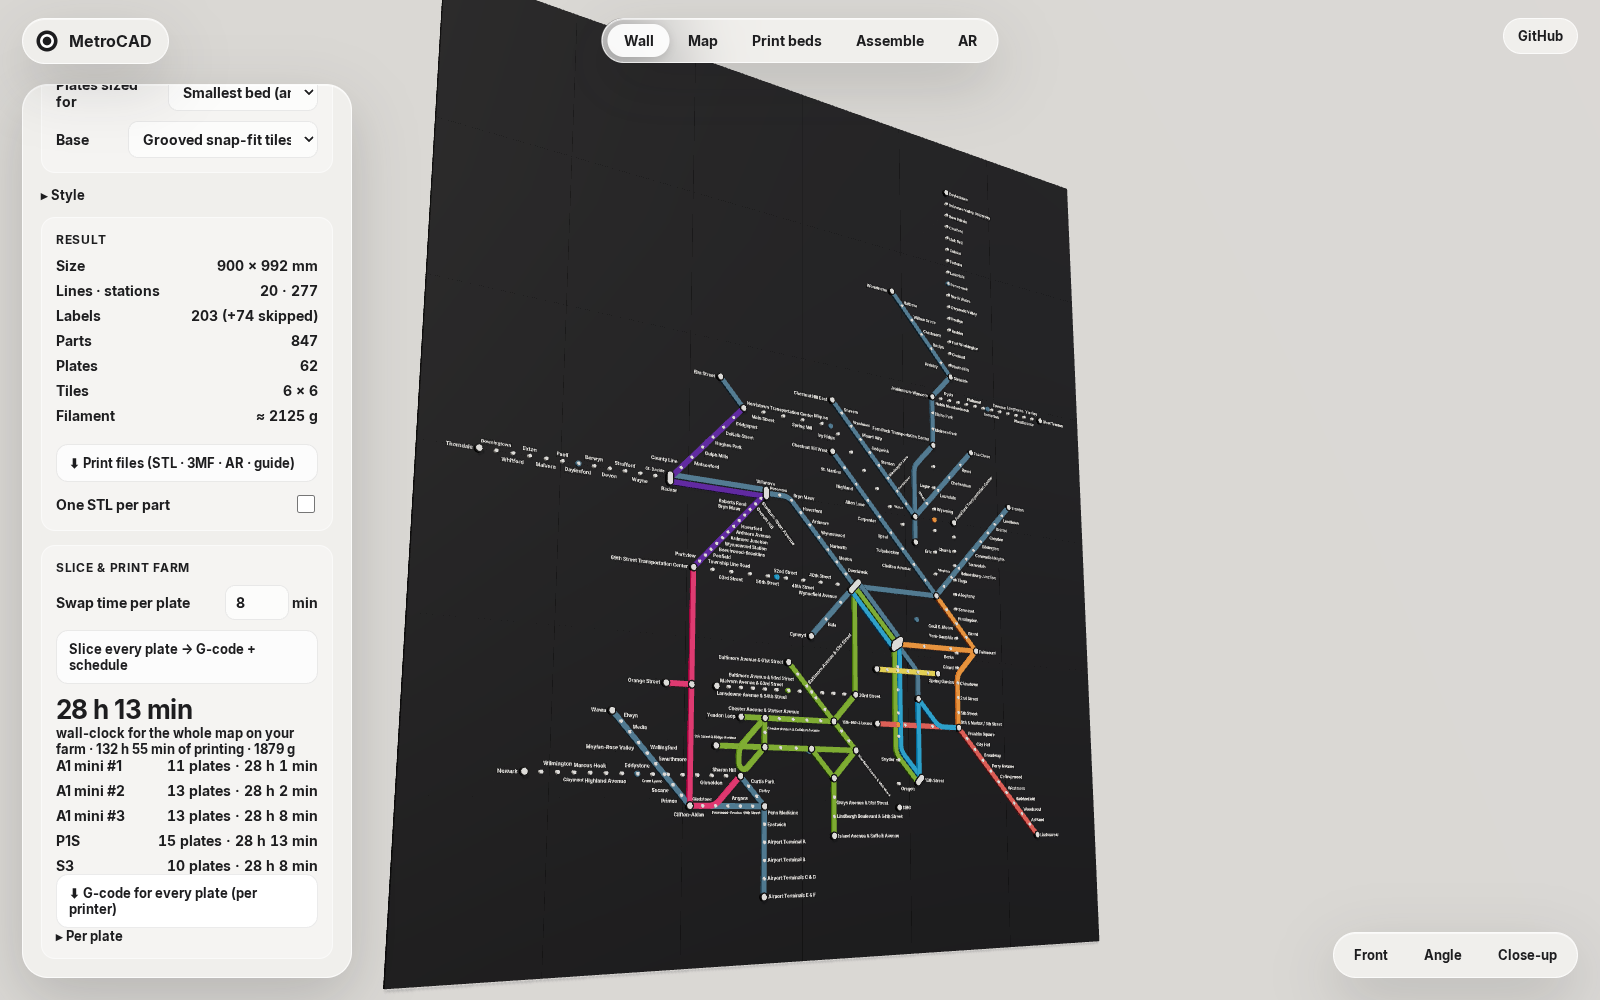
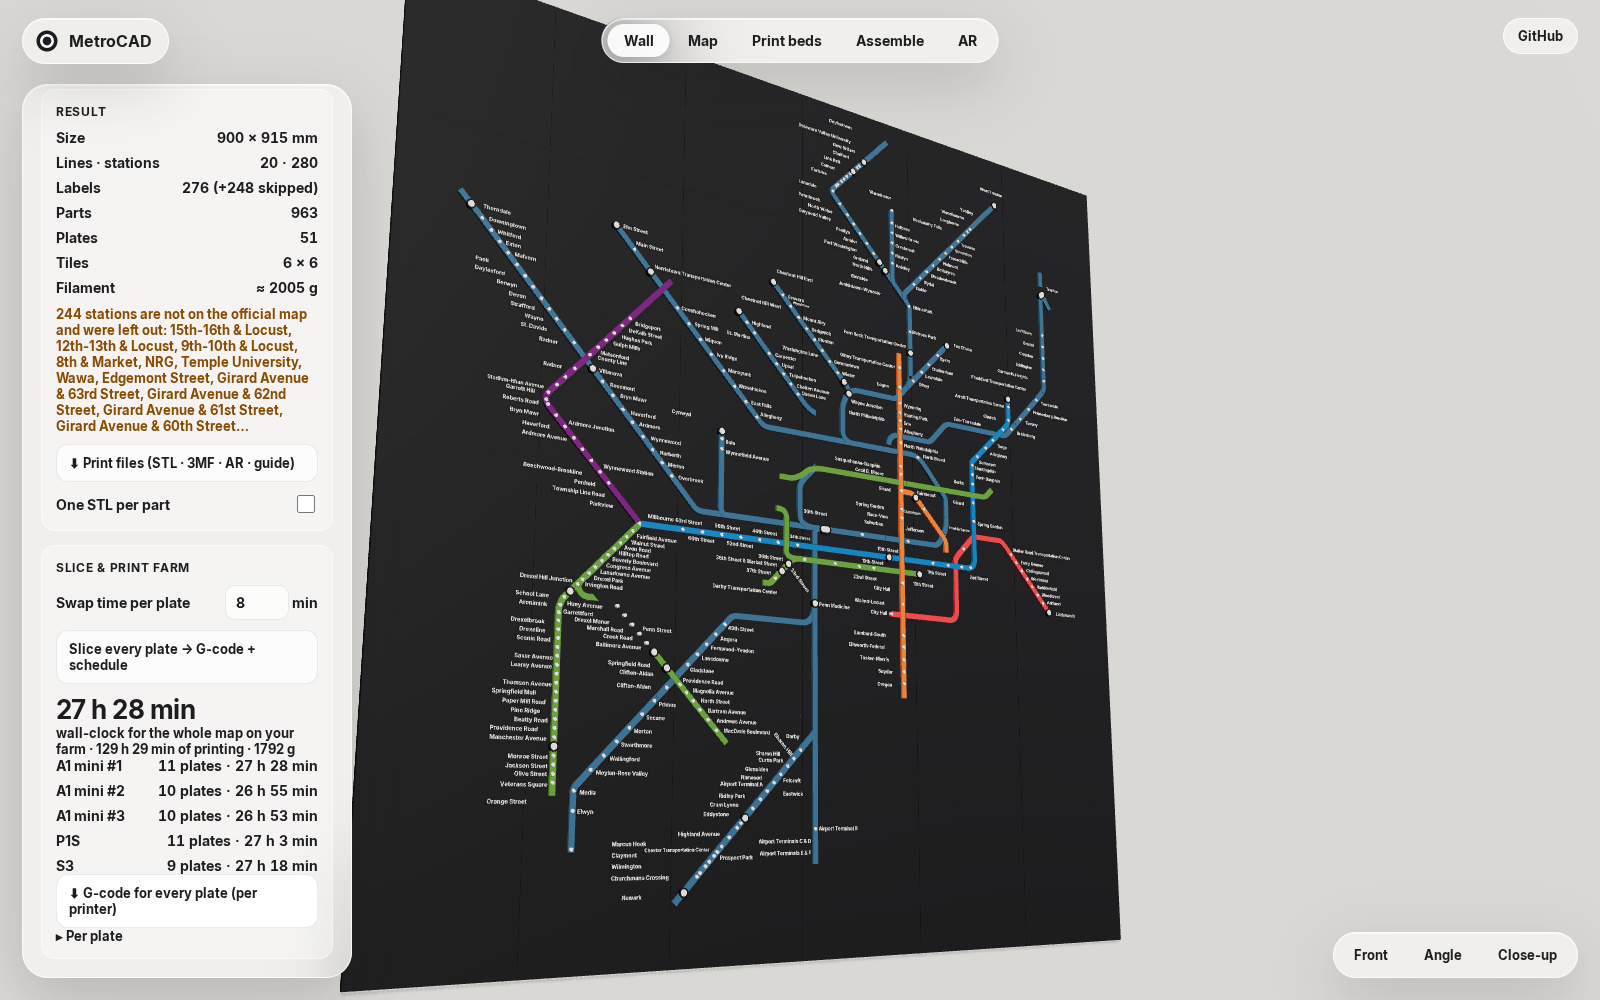
Fix bed-split cuts that deleted long line pieces; interchange nodes drawn apart get separate markers; Philadelphia screenshots from the official geometry
The half-plane used for bed-split cuts removed the piece instead of the stub beyond its end, so every ribbon longer than the bed vanished from the 3D model (Philly's B, D, M, PATCO and most Regional Rail; also affected London and generated maps). Lines with no located stations no longer borrow a stroke colour. Verification: 280/524 stations on SEPTA's geometry, 9 problems.

Claude-Session: https://claude.ai/code/session_01MBsjaw49DwxCbAxCaJEcQU

Changed region(s): [[0.0312, 0.0, 0.7188, 0.992], [0.0312, 0.682, 0.1875, 0.868]]

diff --git a/packages/core/src/geometry.ts b/packages/core/src/geometry.ts
@@ -146,7 +146,7 @@ export function buildParts(m: ManifoldToplevel, layout: LayoutResult, params: De
   const chainCSs: ChainCS[] = [];
   const halfW = params.lineWidth / 2;
   const halfPlane = (at: Vec2, dir: Vec2): CrossSection => {
-    // Half-plane containing points "behind" dir (i.e. dot(p - at, dir) <= 0): a big square whose +x edge passes through `at`.
+    // Half-plane of points *ahead* of `at` along dir (dot(p - at, dir) >= 0): what a bed-split cut removes beyond a piece's end.
     const sq = CrossSection.square([BIG, 2 * BIG], false).translate([-BIG, -BIG]);
     const r = sq.rotate((angleOf(dir) * 180) / Math.PI);
     sq.delete();
@@ -167,17 +167,23 @@ export function buildParts(m: ManifoldToplevel, layout: LayoutResult, params: De
     if (!caps.length) continue;
     let cs = CrossSection.union(caps);
     caps.forEach((c) => c.delete());
+    const trace: string[] = [`caps ${cs.area().toFixed(0)}`];
     // straight cuts at bed splits (leave clearance/2 on each side so the two pieces do not touch)
-    if (ch.startEnd === 'cut') {
-      const dir = norm(sub(pts[1], pts[0]));
-      const hp = halfPlane(add(pts[0], [dir[0] * clr * 0.5, dir[1] * clr * 0.5]), [-dir[0], -dir[1]]);
+    // direction from the first/last pair of *distinct* points (a repeated point would give a NaN cut that eats the piece)
+    const firstDistinct = pts.findIndex((q, k) => k > 0 && dist(q, pts[0]) > 1e-6);
+    let lastDistinct = pts.length - 2; while (lastDistinct > 0 && dist(pts[lastDistinct], pts[pts.length - 1]) <= 1e-6) lastDistinct--;
+    if (ch.startEnd === 'cut' && firstDistinct > 0) {
+      const dir = norm(sub(pts[firstDistinct], pts[0]));
+      const hp = halfPlane(add(pts[0], [dir[0] * clr * 0.5, dir[1] * clr * 0.5]), dir);
+      const n = cs.subtract(hp); cs.delete(); hp.delete(); cs = n;
+      trace.push(`startcut ${cs.area().toFixed(0)}`);
+    }
+    if (ch.endEnd === 'cut' && lastDistinct >= 0) {
+      const dir = norm(sub(pts[pts.length - 1], pts[lastDistinct]));
+      const hp = halfPlane(sub(pts[pts.length - 1], [dir[0] * clr * 0.5, dir[1] * clr * 0.5]), [-dir[0], -dir[1]]);
       const n = cs.subtract(hp); cs.delete(); hp.delete(); cs = n;
     }
-    if (ch.endEnd === 'cut') {
-      const dir = norm(sub(pts[pts.length - 1], pts[pts.length - 2]));
-      const hp = halfPlane(sub(pts[pts.length - 1], [dir[0] * clr * 0.5, dir[1] * clr * 0.5]), dir);
-      const n = cs.subtract(hp); cs.delete(); hp.delete(); cs = n;
-    }
+    trace.push(`cuts ${cs.area().toFixed(0)}`);
     // station ends: subtract the marker (with clearance)
     for (const sid of [ch.startStation, ch.endStation]) {
       if (!sid) continue;
@@ -185,6 +191,7 @@ export function buildParts(m: ManifoldToplevel, layout: LayoutResult, params: De
       if (!mk) continue;
       const off = mk.offset(clr, 'Round');
       const n = cs.subtract(off); cs.delete(); off.delete(); cs = n;
+      trace.push(`end ${sid} ${cs.area().toFixed(0)}`);
     }
     // through stations: holes for dots
     for (const t of ch.throughStations) {
@@ -199,10 +206,10 @@ export function buildParts(m: ManifoldToplevel, layout: LayoutResult, params: De
       const mk = markerCS.get(st.id)!;
       const off = mk.offset(clr, 'Round');
       const inter = cs.intersect(off);
-      if (inter.area() > 0.01) { const n = cs.subtract(off); cs.delete(); cs = n; }
+      if (inter.area() > 0.01) { const n = cs.subtract(off); cs.delete(); cs = n; trace.push(`marker ${st.id} ${cs.area().toFixed(0)}`); }
       inter.delete(); off.delete();
     }
-    if (cs.area() < 0.5) { cs.delete(); continue; }
+    if (cs.area() < 0.5) { warnings.push(`Line piece ${ch.id} (${pts.length} points) vanished after cutting markers/holes: ${trace.join(' → ')}`); cs.delete(); continue; }
     chainCSs.push({ chain: ch, lineId: ln.id, cs: keep(cs), bbox: { x: bb.x - halfW, y: bb.y - halfW, w: bb.w + 2 * halfW, h: bb.h + 2 * halfW } });
     ci++;
   }

diff --git a/packages/core/src/svgimport.ts b/packages/core/src/svgimport.ts
@@ -511,7 +511,7 @@ export function layoutFromExtract(ex0: SvgExtract, net0: MetroNetwork, params: D
     if (typeof process !== 'undefined' && process.env?.SVG_DEBUG === 'colours') log(`  ${ln.ref} candidates ${tried.join(' ')}`);
     // Enough of the line's stations sit on strokes of this colour: a share of them, or at least three (long lines
     // whose labels are mostly bare ordinals or logos still have a few clean hits).
-    if (best && (best.score > 0.15 || best.hits >= 3 || pts.length === 0)) assigned.set(ln.id, best.c);
+    if (best && pts.length > 0 && (best.score > 0.15 || best.hits >= 3)) assigned.set(ln.id, best.c);
     log(`line ${ln.ref}: ${best ? `${best.c} (${(best.score * 100).toFixed(0)}% of ${pts.length} stations)` : 'no colour match'}`);
   }
   // 2b. Resolve which text is which station. A name that appears more than once ("Allegheny" on three lines) goes to
@@ -761,6 +761,35 @@ export function layoutFromExtract(ex0: SvgExtract, net0: MetroNetwork, params: D
       }
     });
     lines.push({ id: ln.id, ref: ln.ref, name: ln.name, color: ((opts.officialColours ?? true) && assigned.get(ln.id)) ? (assigned.get(ln.id) as Hex) : ln.color, chains });
+  }
+  // An interchange whose line ends sit far apart on the drawing (SEPTA draws 30th Street's Regional Rail, L and
+  // trolley platforms as separate nodes joined by a connector) gets one marker per cluster of ends, not one pill
+  // spanning them all — a pill that long would swallow every ribbon under it.
+  {
+    const rMaj = markerRadiusMajor(params);
+    const splitR = rMaj * 2 + params.lineWidth;
+    const extra: LayoutStation[] = [];
+    for (const st of [...stMap.values()]) {
+      if (!st.major || st.markerPoints.length < 2) continue;
+      const clusters: Vec2[][] = [];
+      for (const p of st.markerPoints) { const c = clusters.find((cl) => cl.some((q) => dist(p, q) <= splitR)); if (c) c.push(p); else clusters.push([p]); }
+      if (clusters.length < 2) continue;
+      clusters.sort((a, b) => b.length - a.length);
+      st.markerPoints = clusters[0];
+      clusters.slice(1).forEach((cl, k) => {
+        const id = `${st.id}~m${k + 2}`;
+        const twin: LayoutStation = { ...st, id, markerPoints: cl, x: cl[0][0], y: cl[0][1] };
+        extra.push(twin);
+        // chain ends that produced these points now belong to the twin
+        for (const ln of lines) for (const ch of ln.chains) {
+          if (ch.startStation === st.id && cl.some((q) => dist(q, ch.points[0]) < 1e-6)) ch.startStation = id;
+          if (ch.endStation === st.id && cl.some((q) => dist(q, ch.points[ch.points.length - 1]) < 1e-6)) ch.endStation = id;
+        }
+      });
+      log(`SVG import: "${st.name}" is drawn as ${clusters.length} separate interchange nodes; split`);
+    }
+    for (const t of extra) stMap.set(t.id, t);
+    if (extra.length) net = { ...net, stations: [...net.stations, ...extra.map((t) => ({ ...net.stations.find((s) => s.id === t.id.split('~m')[0])!, id: t.id }))] };
   }
   for (const st of stMap.values()) { if (!st.markerPoints.length) st.markerPoints = [[st.x, st.y]]; if (st.major) { st.x = st.markerPoints.reduce((a, p) => a + p[0], 0) / st.markerPoints.length; st.y = st.markerPoints.reduce((a, p) => a + p[1], 0) / st.markerPoints.length; } }
 

diff --git a/docs/matrix.md b/docs/matrix.md
@@ -13,9 +13,9 @@ Every bundled city at three wall widths. Print time = sum of sliced plate times 
 | Paris | 600 × 683 | 4.8 / 4.5 | 16 / 321 | 936 | 37 | 4×4 | 962 g | $21 | 75 h | 26.6 h | 21.2 h | 7.8 h | 10.6 h |
 | Paris | 900 × 975 | 6 / 5.5 | 16 / 321 | 993 | 58 | 6×6 | 1955 g | $43 | 141.4 h | 49.6 h | 39.5 h | 14.5 h | 11.9 h |
 | Paris | 1200 × 1295 | 8 / 7.3 | 16 / 321 | 1011 | 83 | 7×8 | 3379 g | $74 | 230.1 h | 80.5 h | 63.8 h | 23 h | 12.9 h |
-| Philadelphia | 600 × 639 | 4.8 / 4.5 | 20 / 277 | 766 | 41 | 4×4 | 863 g | $19 | 64.9 h | 23.4 h | 18.6 h | 6.7 h | 7.3 h |
-| Philadelphia | 900 × 961 | 6 / 5.5 | 20 / 277 | 889 | 62 | 6×6 | 1835 g | $40 | 126.1 h | 44.7 h | 35.5 h | 12.7 h | 9.3 h |
-| Philadelphia | 1200 × 1282 | 8 / 7.3 | 20 / 277 | 922 | 84 | 7×8 | 3170 g | $70 | 204.7 h | 71.8 h | 57.1 h | 20.4 h | 10.7 h |
+| Philadelphia | 600 × 610 | 4.8 / 4.5 | 20 / 280 | 901 | 29 | 4×4 | 842 g | $19 | 64.5 h | 22.9 h | 18.1 h | 6.6 h | 8 h |
+| Philadelphia | 900 × 915 | 6 / 5.5 | 20 / 280 | 963 | 51 | 6×6 | 1792 g | $39 | 126.3 h | 44.4 h | 35.4 h | 13.3 h | 9.5 h |
+| Philadelphia | 1200 × 1219 | 8 / 7.3 | 20 / 280 | 991 | 77 | 7×8 | 3129 g | $69 | 207.9 h | 72.6 h | 57.7 h | 20.9 h | 10.7 h |
 | Pittsburgh | 600 × 840 | 4.8 / 4.5 | 3 / 51 | 256 | 26 | 4×5 | 1027 g | $23 | 66.3 h | 23.5 h | 18.6 h | 7.4 h | 3.9 h |
 | Pittsburgh | 900 × 1260 | 6 / 5.5 | 3 / 51 | 287 | 54 | 6×8 | 2263 g | $50 | 144.2 h | 50.5 h | 40.4 h | 14.6 h | 5.4 h |
 | Pittsburgh | 1200 × 1680 | 8 / 7.3 | 3 / 51 | 314 | 79 | 7×10 | 3973 g | $87 | 240.9 h | 83.8 h | 66.7 h | 24.3 h | 6.6 h |

diff --git a/docs/verification-philadelphia.md b/docs/verification-philadelphia.md
@@ -8,7 +8,7 @@ Source drawing: `septa-june26.svg` · 900 mm wide · 280/524 stations placed on 
 |---|---|---|---|---|---|---|---|
 | B SEPTA Broad Street Line | 24 | 22 | 1 | 0 | #f58220 | #f37324 | NRG, 8th & Market |
 | D D (D1–D2) | 50 | 45 | 0 | 0 | #dc2e6b | #5e9732 | Edgemont Street, Woodland Avenue, Springfield Road, Anderson Avenue, 69th Street Transportation Center West Terminal |
-| G SEPTA 15 | 51 | 0 | 0 | 0 | #ffd700 | #ef3d42 | Girard Avenue & 63rd Street, Girard Avenue & 62nd Street, Girard Avenue & 61st Street, Girard Avenue & 60th Street, Girard Avenue & 59th Street, Girard Avenue & 57th Street, Girard Avenue & 56th Street, Girard Avenue & 54th Street … (+43) |
+| G SEPTA 15 | 51 | 0 | 0 | 0 | #ffd700 | — | Girard Avenue & 63rd Street, Girard Avenue & 62nd Street, Girard Avenue & 61st Street, Girard Avenue & 60th Street, Girard Avenue & 59th Street, Girard Avenue & 57th Street, Girard Avenue & 56th Street, Girard Avenue & 54th Street … (+43) |
 | L SEPTA Market-Frankford Line | 28 | 27 | 2 | 0 | #0097d6 | #007dc3 | 69th Street Transportation Center |
 | M SEPTA Norristown High Speed Line | 22 | 21 | 2 | 0 | #5f249f | #781d7d | 69th Street Transportation Center |
 | PATCO PATCO Speedline | 14 | 10 | 0 | 0 | #db5450 | #ef3d42 | 15th-16th & Locust, 12th-13th & Locust, 9th-10th & Locust, 8th & Market |
